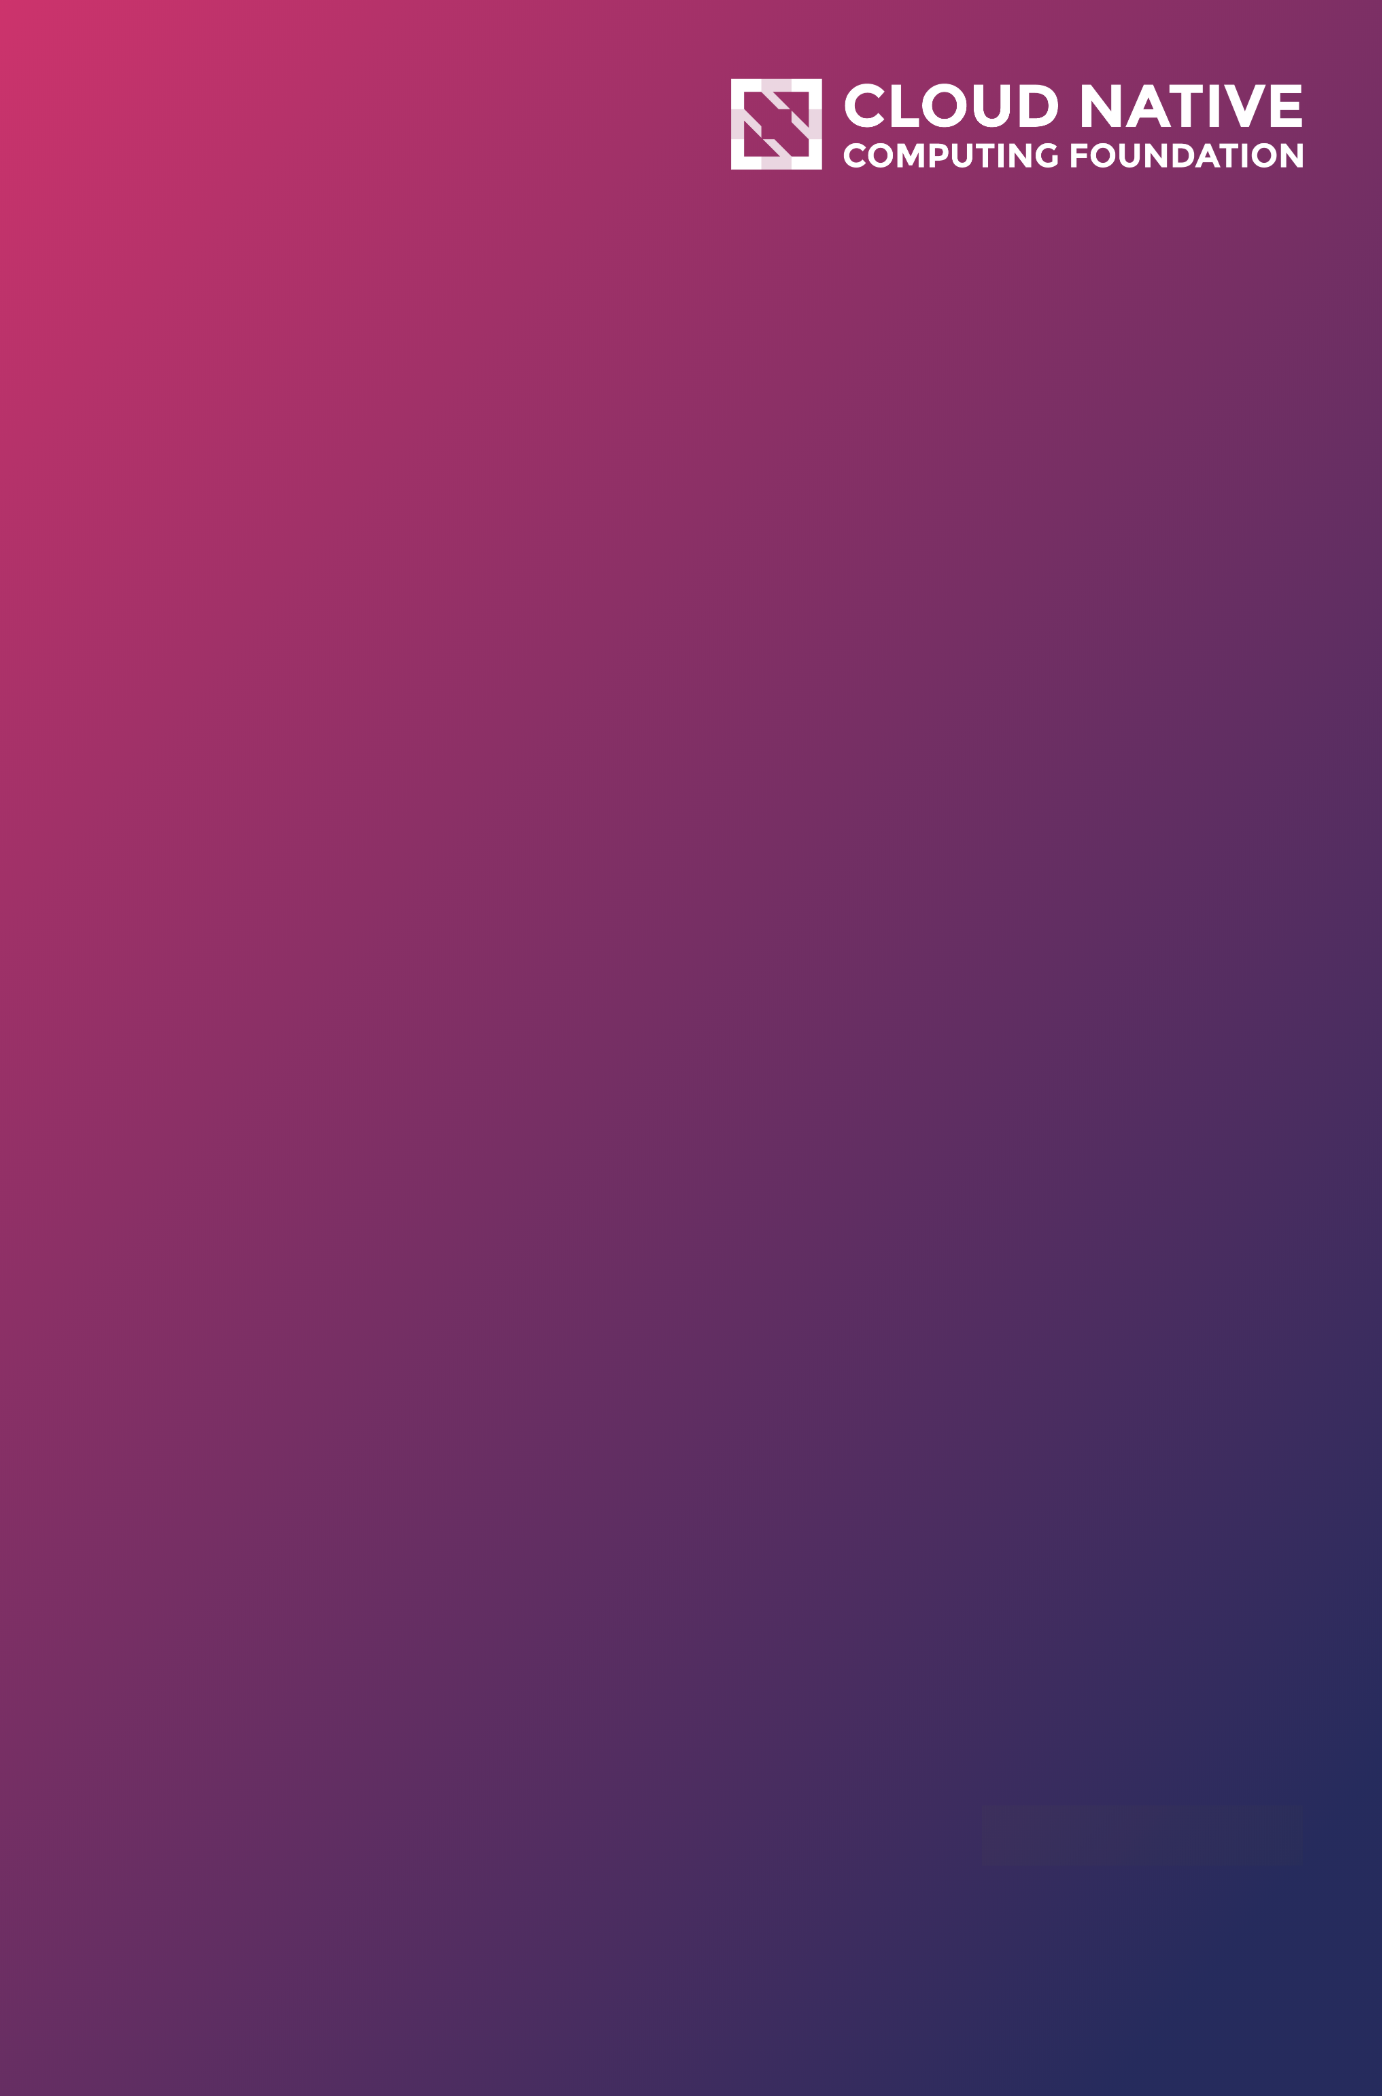
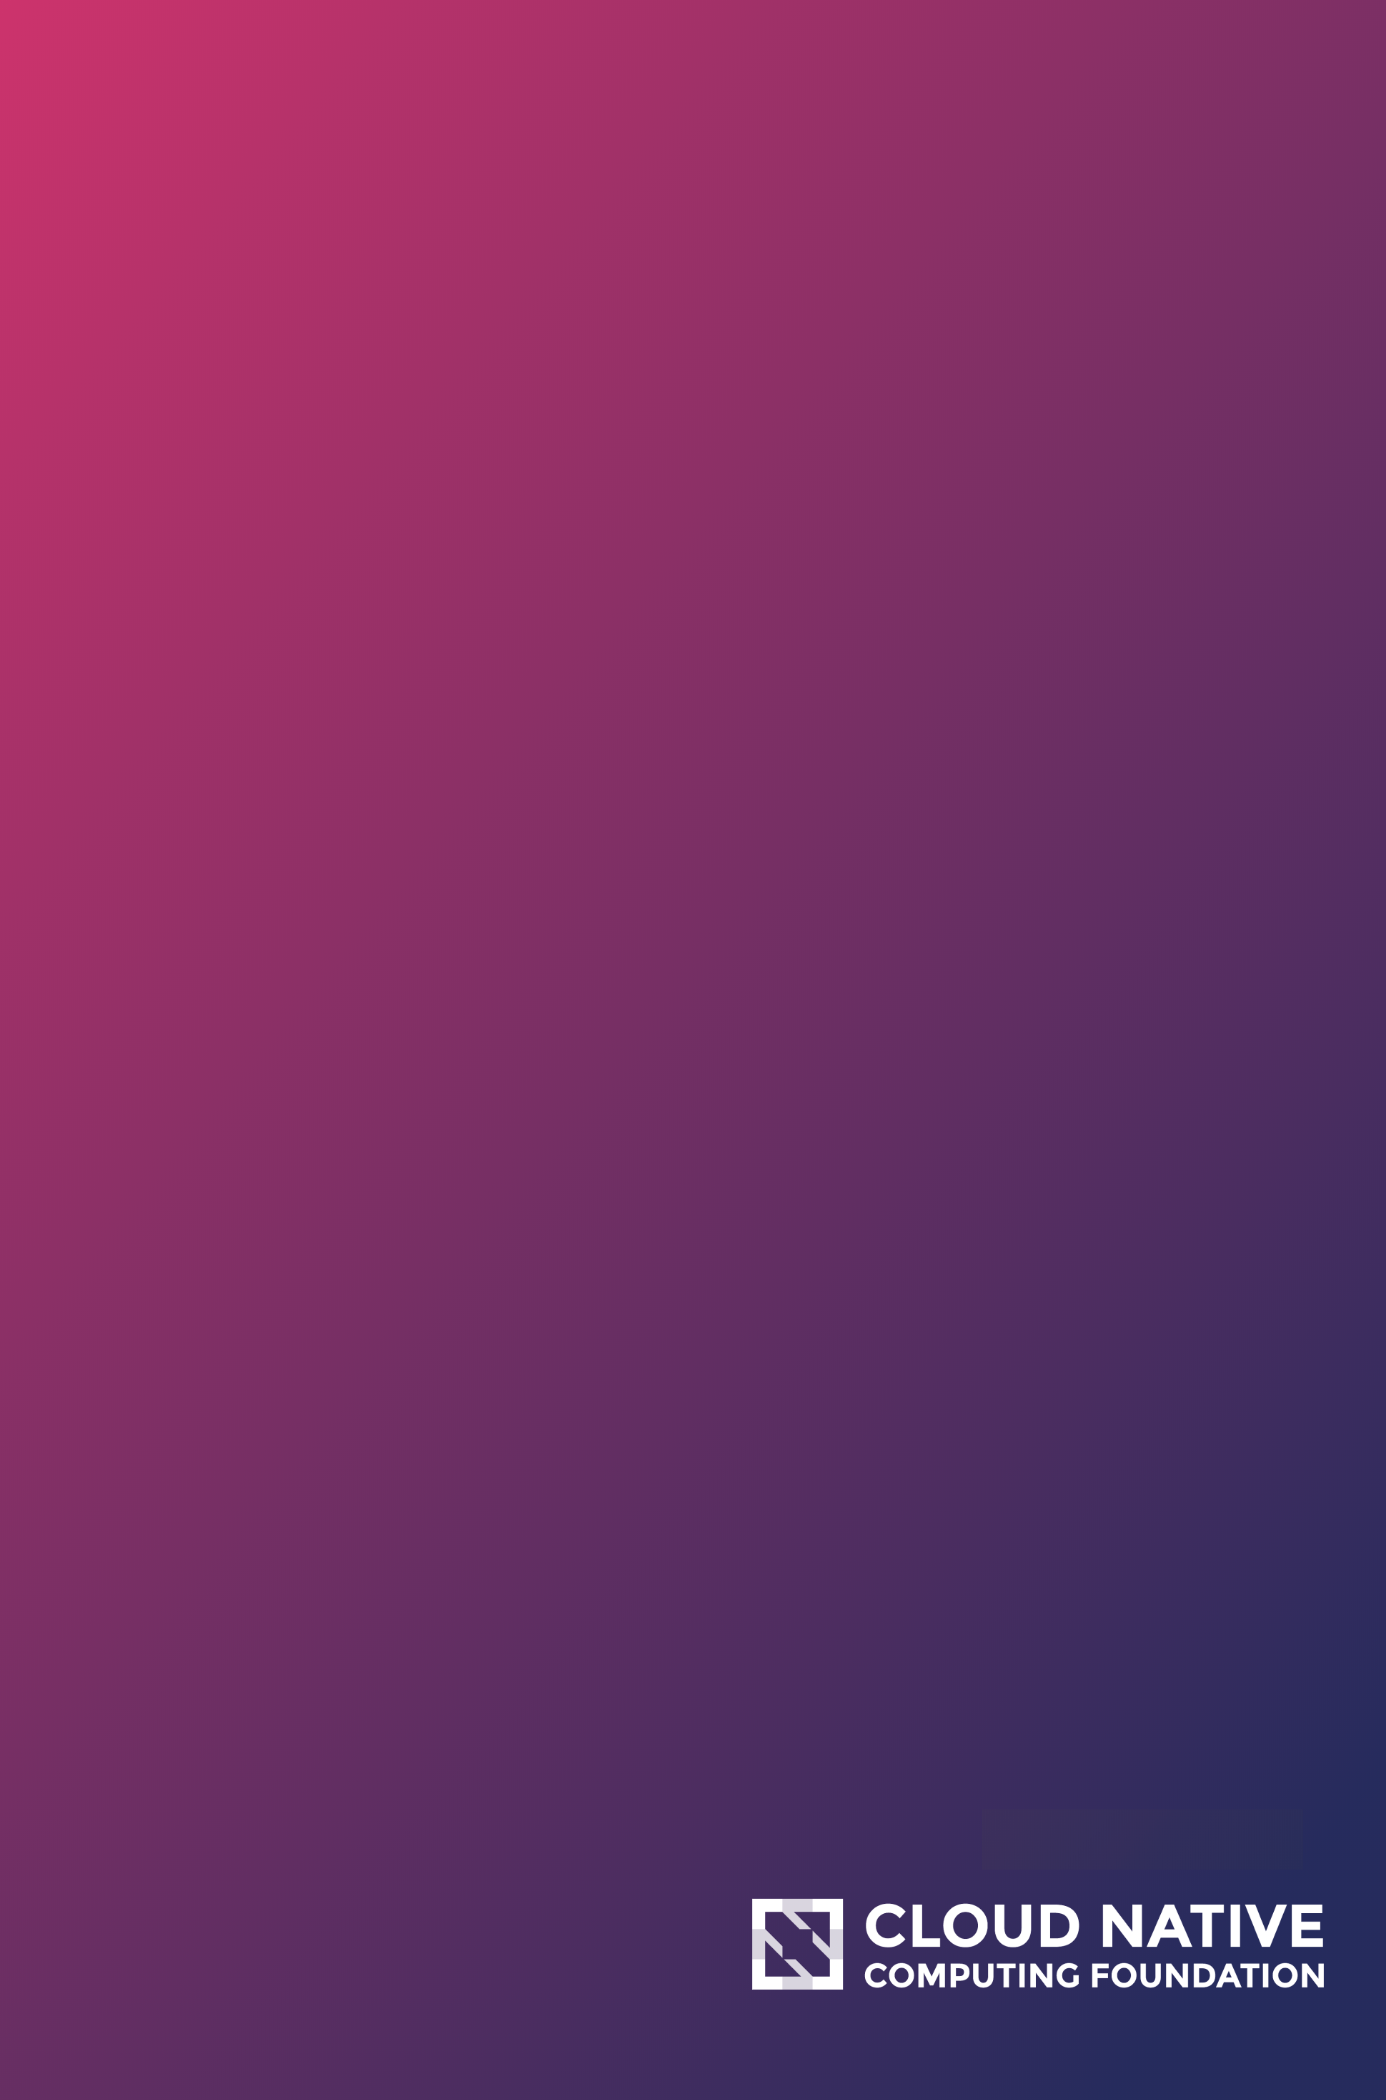
Change the base gradient image

Changed region(s): [[0.5289, 0.8993, 0.9645, 0.9614], [0.5289, 0.031, 0.9645, 0.093]]

diff --git a/poster/generator/style.css b/poster/generator/style.css
@@ -29,6 +29,22 @@ body{
     width: 100%;
     display: none;
 }
+#sponsor{
+    position: absolute;
+    margin-top: 50px;
+    margin-left: 900px;
+    font-size: 50;
+    font-family: Impact, Haettenschweiler, 'Arial Narrow Bold', sans-serif;
+    color: white;
+    z-index: 30;
+}
+#sponsor-logo{
+    position: absolute;
+    margin-top: 120px;
+    margin-left: 950px;
+    width: 350px;
+    z-index: 30;
+}
 #title{
     position: absolute;
     margin-top: 250px;
@@ -137,21 +153,5 @@ body{
     font-size: 50;
     font-family: Impact, Haettenschweiler, 'Arial Narrow Bold', sans-serif;
     color: white;
-    z-index: 30;
-}
-#sponsor{
-    position: absolute;
-    margin-top: 1800px;
-    margin-left: 850px;
-    font-size: 50;
-    font-family: Impact, Haettenschweiler, 'Arial Narrow Bold', sans-serif;
-    color: white;
-    z-index: 30;
-}
-#sponsor-logo{
-    position: absolute;
-    margin-top: 1870px;
-    margin-left: 850px;
-    width: 350px;
     z-index: 30;
 }
